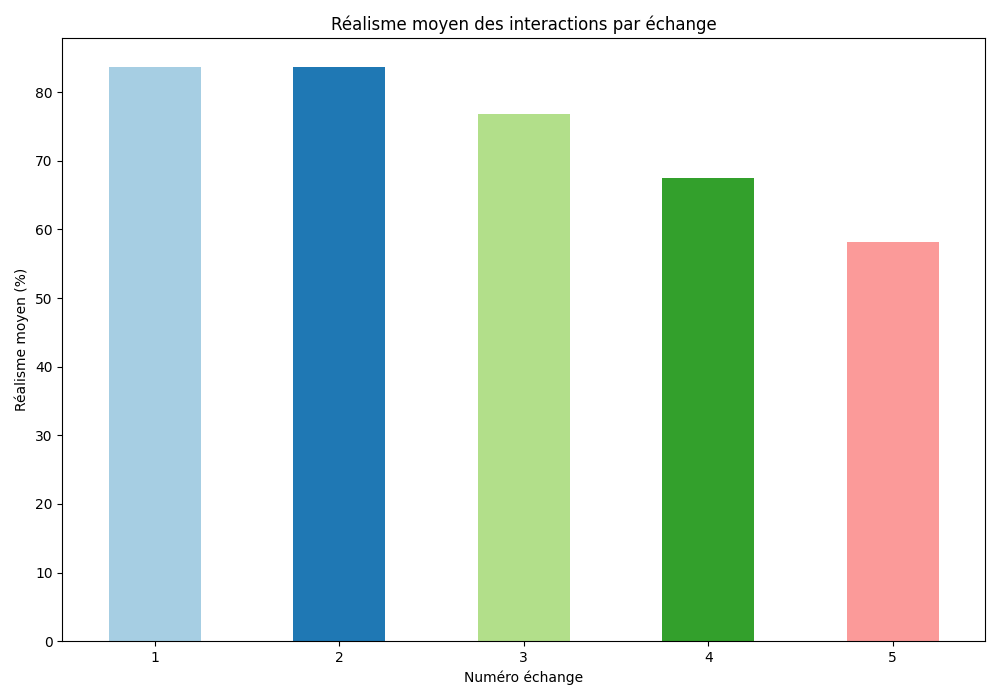
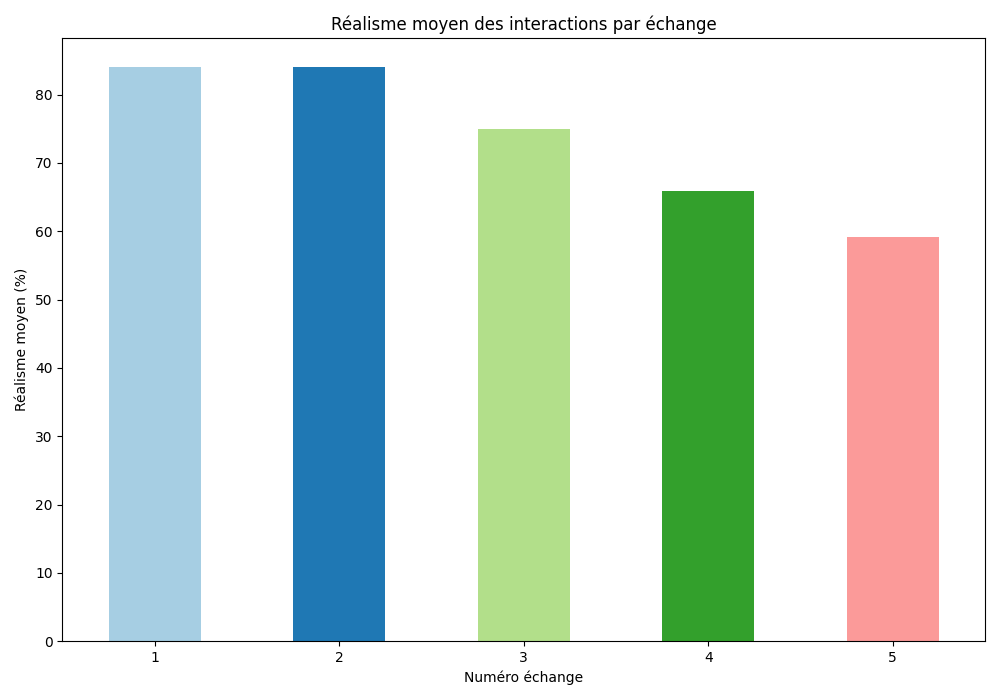
nouvelle évaluation + maj rapport

diff --git a/sondages/conversations/output/rapport_statistique.md b/sondages/conversations/output/rapport_statistique.md
@@ -1,7 +1,7 @@
 # Rapport Statistique
 
-## Nombre total d'évaluation de conversations : 43
-## Nombre total d'échanges évalués : 215
+## Nombre total d'évaluation de conversations : 44
+## Nombre total d'échanges évalués : 220
 
 ## Graphiques
 
@@ -19,130 +19,130 @@
 
 ## Statistiques pour Échange 1
 ### Note pertinence question
-- **Moyenne**: 4.8604651162790695
+- **Moyenne**: 4.863636363636363
 - **Médiane**: 5.0
-- **Écart-type**: 0.350604603563426
+- **Écart-type**: 0.34714175717877416
 - **Min**: 4.0
 - **Max**: 5.0
-- **Nombre de valeurs**: 43
+- **Nombre de valeurs**: 44
 ### Note pertinence réponse
-- **Moyenne**: 4.511627906976744
+- **Moyenne**: 4.5227272727272725
 - **Médiane**: 5.0
-- **Écart-type**: 0.8829628968976533
+- **Écart-type**: 0.8757358729884831
 - **Min**: 2
 - **Max**: 5
-- **Nombre de valeurs**: 43
+- **Nombre de valeurs**: 44
 ### Réalisme interaction
-- **Oui**: 83.72%
-- **Non**: 13.95%
-- **Non répondu**: 2.33%
+- **Oui**: 84.09%
+- **Non**: 13.64%
+- **Non répondu**: 2.27%
 ### Réalisme moyen
-- 83.72093023255815
+- 84.0909090909091
 
 ## Statistiques pour Échange 2
 ### Note pertinence question
-- **Moyenne**: 4.767441860465116
+- **Moyenne**: 4.7727272727272725
 - **Médiane**: 5.0
-- **Écart-type**: 0.5272213460490666
+- **Écart-type**: 0.5222329678670936
 - **Min**: 3.0
 - **Max**: 5.0
-- **Nombre de valeurs**: 43
+- **Nombre de valeurs**: 44
 ### Note pertinence réponse
-- **Moyenne**: 4.465116279069767
+- **Moyenne**: 4.4772727272727275
 - **Médiane**: 5.0
-- **Écart-type**: 0.7351331984685407
+- **Écart-type**: 0.7309960189385555
 - **Min**: 3
 - **Max**: 5
-- **Nombre de valeurs**: 43
+- **Nombre de valeurs**: 44
 ### Réalisme interaction
-- **Oui**: 83.72%
-- **Non**: 13.95%
-- **Non répondu**: 2.33%
+- **Oui**: 84.09%
+- **Non**: 13.64%
+- **Non répondu**: 2.27%
 ### Réalisme moyen
-- 83.72093023255815
+- 84.0909090909091
 
 ## Statistiques pour Échange 3
 ### Note pertinence question
-- **Moyenne**: 4.488372093023256
+- **Moyenne**: 4.4772727272727275
 - **Médiane**: 5.0
-- **Écart-type**: 0.8555725741740722
+- **Écart-type**: 0.8487648033065013
 - **Min**: 1.0
 - **Max**: 5.0
-- **Nombre de valeurs**: 43
+- **Nombre de valeurs**: 44
 ### Note pertinence réponse
-- **Moyenne**: 3.86046511627907
+- **Moyenne**: 3.8636363636363638
 - **Médiane**: 4.0
-- **Écart-type**: 1.125069211603006
+- **Écart-type**: 1.1121090186418816
 - **Min**: 1
 - **Max**: 5
-- **Nombre de valeurs**: 43
+- **Nombre de valeurs**: 44
 ### Réalisme interaction
-- **Oui**: 76.74%
-- **Non**: 23.26%
+- **Oui**: 75.0%
+- **Non**: 25.0%
 ### Réalisme moyen
-- 76.74418604651163
+- 75.0
 
 ## Statistiques pour Échange 4
 ### Note pertinence question
-- **Moyenne**: 4.142857142857143
-- **Médiane**: 4.0
-- **Écart-type**: 1.0017406453556186
-- **Min**: 2.0
-- **Max**: 5.0
-- **Nombre de valeurs**: 42
-### Note pertinence réponse
 - **Moyenne**: 4.069767441860465
 - **Médiane**: 4.0
-- **Écart-type**: 1.0778141203205438
+- **Écart-type**: 1.0996828295383154
+- **Min**: 1.0
+- **Max**: 5.0
+- **Nombre de valeurs**: 43
+### Note pertinence réponse
+- **Moyenne**: 4.0227272727272725
+- **Médiane**: 4.0
+- **Écart-type**: 1.1099682870734047
 - **Min**: 1
 - **Max**: 5
-- **Nombre de valeurs**: 43
+- **Nombre de valeurs**: 44
 ### Réalisme interaction
-- **Oui**: 67.44%
-- **Non**: 32.56%
+- **Oui**: 65.91%
+- **Non**: 34.09%
 ### Réalisme moyen
-- 67.44186046511628
+- 65.9090909090909
 
 ## Statistiques pour Échange 5
 ### Note pertinence question
-- **Moyenne**: 4.209302325581396
+- **Moyenne**: 4.204545454545454
 - **Médiane**: 5.0
-- **Écart-type**: 0.9400643223910575
+- **Écart-type**: 0.9296047035501591
 - **Min**: 2.0
 - **Max**: 5.0
-- **Nombre de valeurs**: 43
+- **Nombre de valeurs**: 44
 ### Note pertinence réponse
-- **Moyenne**: 3.604651162790698
+- **Moyenne**: 3.6136363636363638
 - **Médiane**: 4.0
-- **Écart-type**: 1.2562137913989786
+- **Écart-type**: 1.2429505236445777
 - **Min**: 1
 - **Max**: 5
-- **Nombre de valeurs**: 43
+- **Nombre de valeurs**: 44
 ### Réalisme interaction
-- **Oui**: 58.14%
-- **Non**: 41.86%
+- **Oui**: 59.09%
+- **Non**: 40.91%
 ### Réalisme moyen
-- 58.139534883720934
+- 59.09090909090909
 
 ## Statistiques pour Global
 ### Note pertinence question
-- **Moyenne**: 4.4953271028037385
+- **Moyenne**: 4.47945205479452
 - **Médiane**: 5.0
-- **Écart-type**: 0.8207843697971494
+- **Écart-type**: 0.8477101759537178
 - **Min**: 1.0
 - **Max**: 5.0
-- **Nombre de valeurs**: 214
+- **Nombre de valeurs**: 219
 ### Note pertinence réponse
-- **Moyenne**: 4.102325581395349
-- **Médiane**: 5.0
-- **Écart-type**: 1.0803011807662548
+- **Moyenne**: 4.1
+- **Médiane**: 4.5
+- **Écart-type**: 1.0807573870579674
 - **Min**: 1
 - **Max**: 5
-- **Nombre de valeurs**: 215
+- **Nombre de valeurs**: 220
 ### Réalisme interaction
-- **Oui**: 73.95%
-- **Non**: 25.12%
-- **Non répondu**: 0.93%
+- **Oui**: 73.64%
+- **Non**: 25.45%
+- **Non répondu**: 0.91%
 
 ## Conversations les plus mal notées
 - **Moins pertinente** : conversation_7 (Score: 3.7333333333333334)
@@ -165,7 +165,7 @@
 - **conversation_2** : 2.0 évaluations
 - **conversation_3** : 4.0 évaluations
 - **conversation_4** : 1.0 évaluations
-- **conversation_5** : 2.0 évaluations
+- **conversation_5** : 3.0 évaluations
 - **conversation_6** : 4.0 évaluations
 - **conversation_7** : 3.0 évaluations
 - **conversation_8** : 3.0 évaluations
@@ -184,7 +184,7 @@
 - **conversation_2** : Moyenne pertinence: 4.3, Réalisme moyen: 50.0%
 - **conversation_3** : Moyenne pertinence: 4.58, Réalisme moyen: 75.0%
 - **conversation_4** : Moyenne pertinence: 4.8, Réalisme moyen: 100.0%
-- **conversation_5** : Moyenne pertinence: 4.65, Réalisme moyen: 100.0%
+- **conversation_5** : Moyenne pertinence: 4.4, Réalisme moyen: 87.0%
 - **conversation_6** : Moyenne pertinence: 3.8, Réalisme moyen: 50.0%
 - **conversation_7** : Moyenne pertinence: 3.73, Réalisme moyen: 67.0%
 - **conversation_8** : Moyenne pertinence: 4.3, Réalisme moyen: 47.0%
